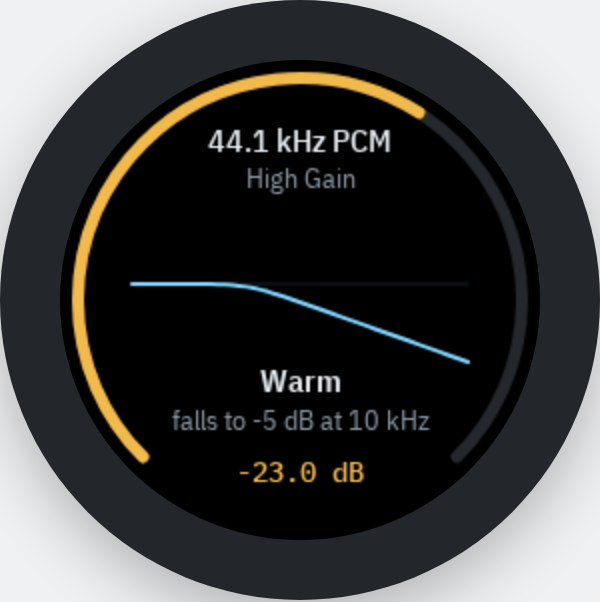
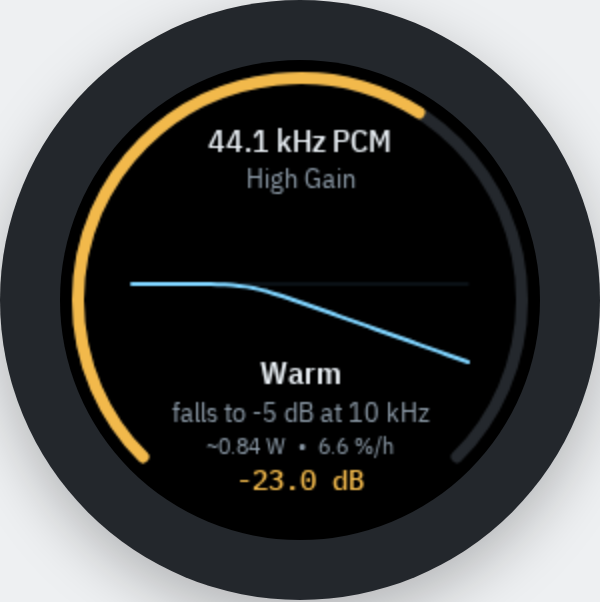
docs: README image and screen text match md3fw 0.3.3 (#6)

Changed region(s): [[0.27, 0.598, 0.72, 0.8372]]

diff --git a/design/status-screen.html b/design/status-screen.html
@@ -146,7 +146,7 @@
       text(g, s.dsd ? "EQ not used on DSD" : NOTES[s.idx], "400 14px 'IBM Plex Sans Condensed', sans-serif", COL.sub, 170);
       text(g, db(att(s)), "500 14px 'IBM Plex Mono', monospace", COL.ring, 204);
       const p = power(s);
-      text(g, "\u2248" + p.w.toFixed(2) + " W  \u00b7  " + p.pct.toFixed(1) + " %/h", "400 12px 'IBM Plex Sans Condensed', sans-serif", COL.sub, 188);
+      text(g, "~" + p.w.toFixed(2) + " W  \u2022  " + p.pct.toFixed(1) + " %/h", "400 12px 'IBM Plex Sans Condensed', sans-serif", COL.sub, 188);
     }
   }
 

diff --git a/README.md b/README.md
@@ -10,7 +10,7 @@ settings format, so the stock firmware can go back on at any time.
 
 Version 0.3.3 is maintained and used daily on one MD3 as a DAC for an iPhone.
 
-![The status screen: Warm preset at 44.1 kHz](images/status-screen.png)
+![The status screen: Warm preset at 44.1 kHz, with the power estimate above the volume](images/status-screen.png)
 
 ## What it does
 
@@ -19,7 +19,7 @@ Version 0.3.3 is maintained and used daily on one MD3 as a DAC for an iPhone.
 - **One status screen:** the stream ("96 kHz PCM", "DSD128", "no stream"), "High Gain" or "Low
   Gain", the EQ preset's curve, its name and a note, an estimate of the power drawn since plug-in
   ("~0.84 W • 6.6 %/h" of an iPhone 15 Pro battery), and the volume as a ring with its value in dB.
-  The screen stays dark until you press Menu and goes dark again 8 s after the last key.
+  The screen stays dark until you press Menu, and goes dark on another Menu click or 8 s after the last key.
 - **Nine EQ presets** on the DAC's programmable filter: Flat (the built-in filter), Bass+ and
   Bass- (±6 dB below 1 kHz), Mid+ and Mid- (±5 dB around 2 kHz, 44.1/48 kHz only), Treble+ and
   Treble- (±6 dB above 5 kHz), Warm (tilts down to -5 dB at 10 kHz) and Bright (up to +5 dB).
